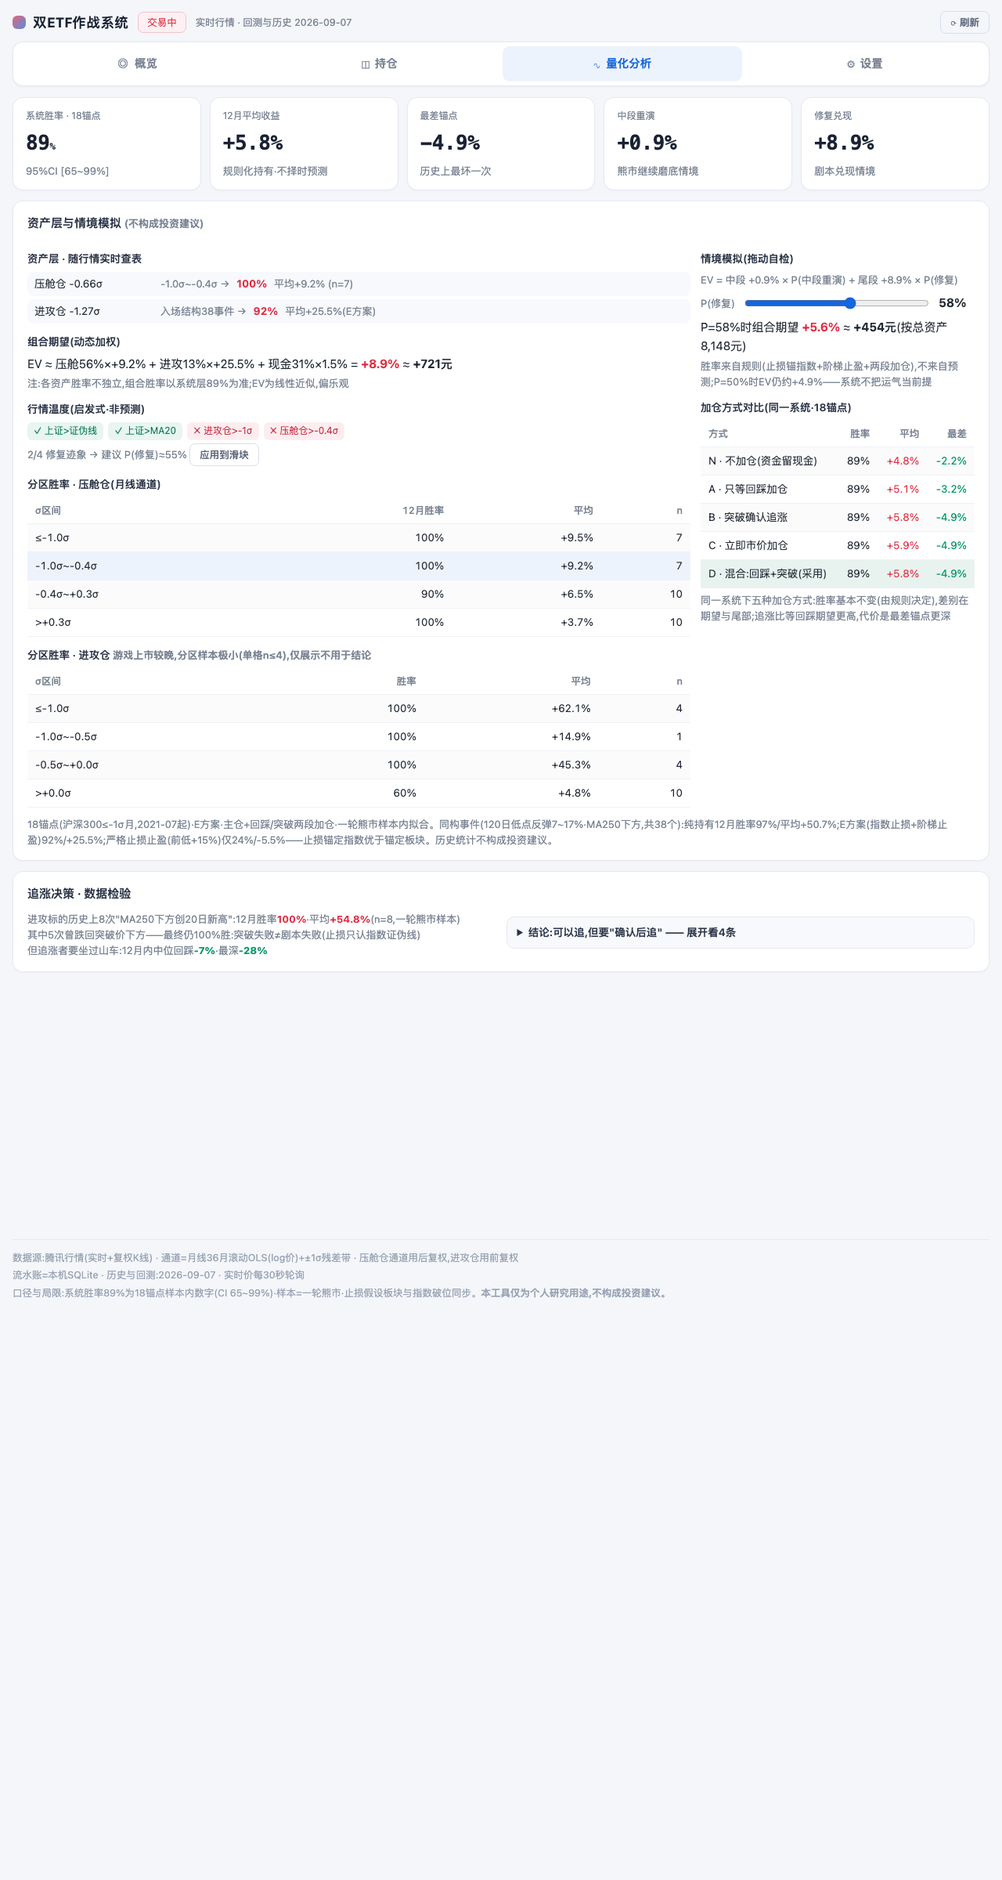
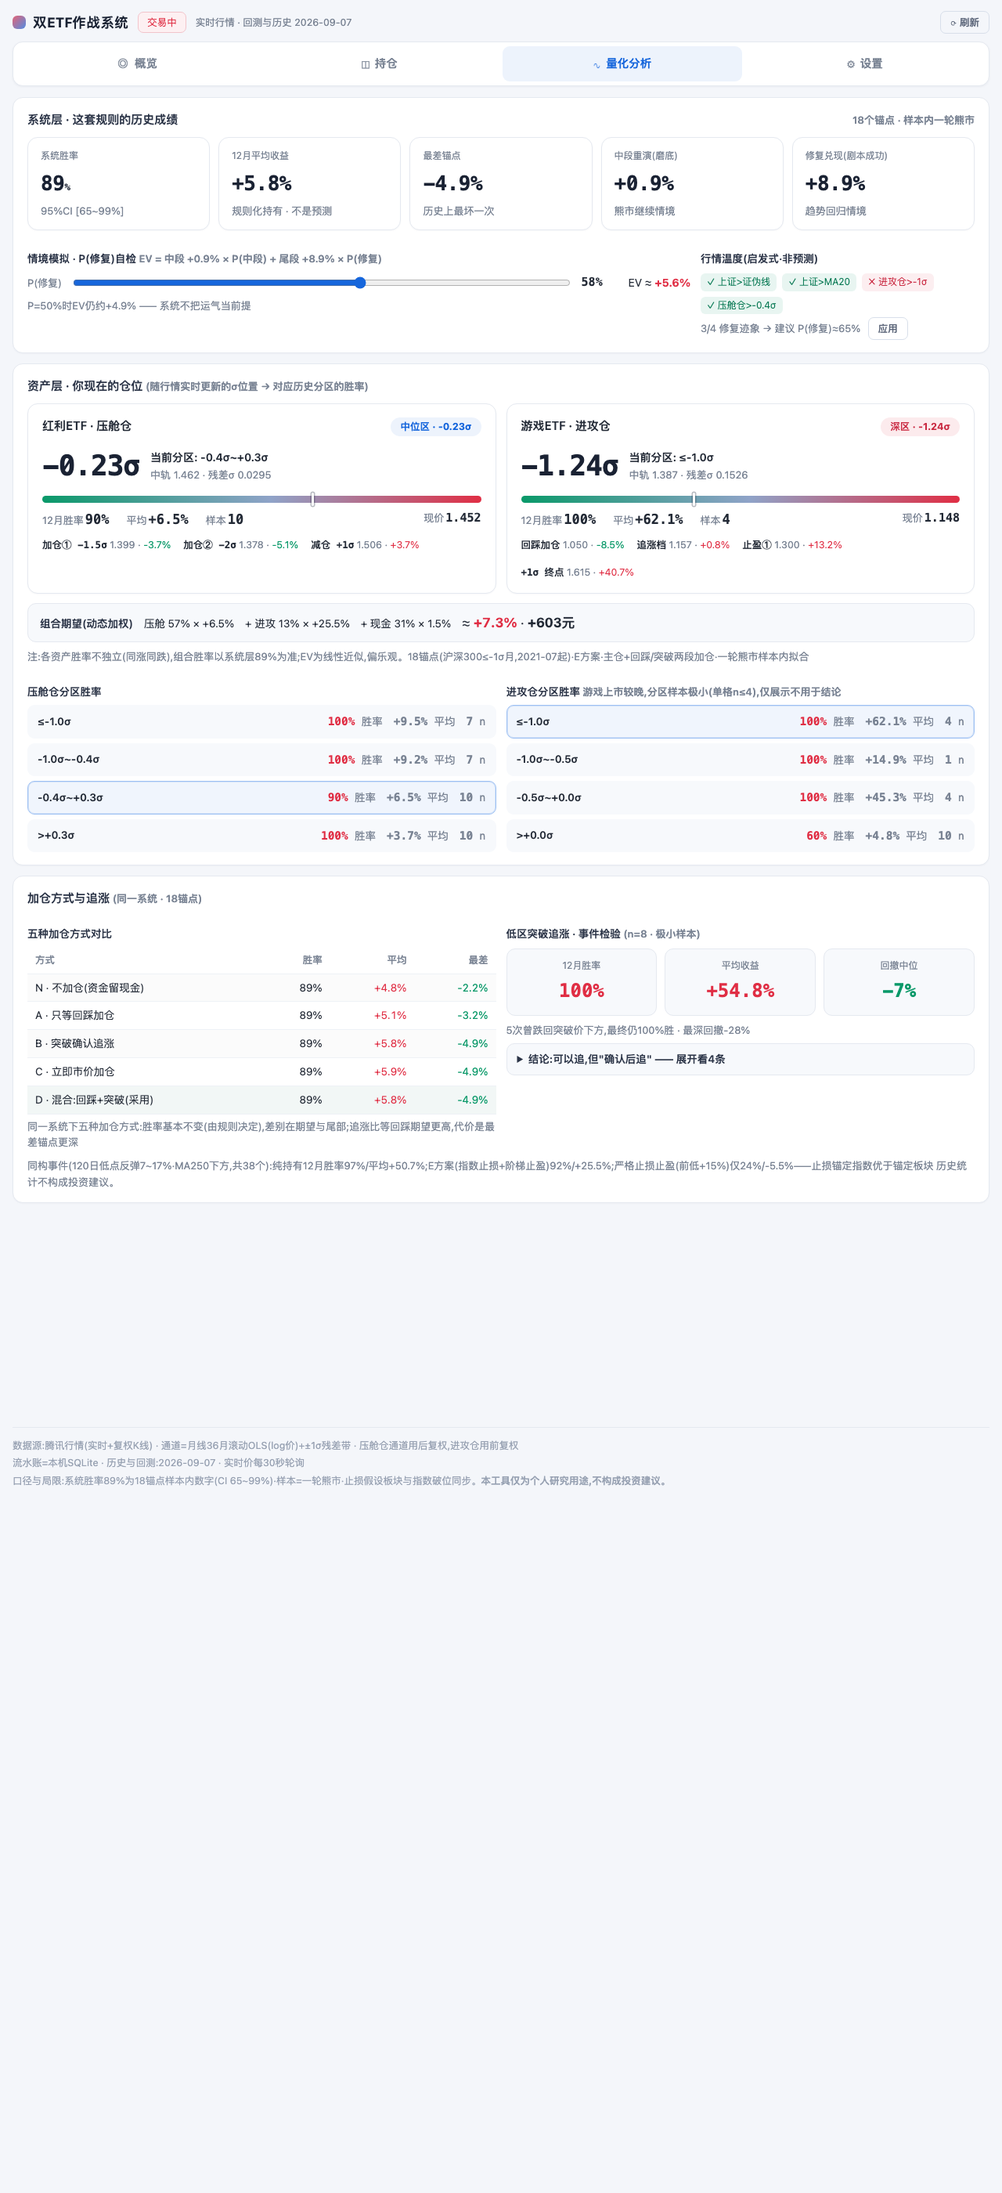
v7 量化页疏朗化:三面板回答三问题,大卡代替密集表格
- 面板1 系统层:五张统计大卡(胜率/平均/最差/中段/尾段)+情境滑块+行情温度两栏并排
- 面板2 资产层:每仓一张大卡(σ大字34px+分区徽章+当前分区胜率/平均/n+量尺+到各作战位的距离%),分区表改行卡片式(4行一列,当前高亮)
- 面板3 加仓与追涨:五方式对比表+追涨三张minicard(胜率/平均/回撤)+结论details折叠
- 面板间距/行距全面放宽,标题带副注,页面从'密集报表'变'三段叙事'

diff --git a/frontend/js/views/quant.js b/frontend/js/views/quant.js
@@ -1,27 +1,64 @@
-// 量化分析视图:胜率三层 + 分区表 + 方案对比 + 追涨检验
+// 量化分析:三块面板——系统层(历史成绩)/资产层(当前位置)/加仓与追涨
 import { store } from '../store.js';
 import { fmt, ZONE_CUTS } from '../config.js';
 
+function zoneOf(pos, key, D) {
+  const cuts = ZONE_CUTS[key];
+  const table = key === 'dividend' ? D.stats.dividend_zones : D.stats.games_zones;
+  return table[cuts.reduce((a, c) => a + (pos > c ? 1 : 0), 0)];
+}
+const zoneCls = pos => (pos <= -1 ? 'deep' : pos < 0 ? 'mid' : 'high');
+const zoneLbl = pos => (pos <= -1 ? '深区' : pos < 0 ? '中位区' : '高位区');
+
+function zoneList(rows, cur) {
+  return `<div class="zonelist">${rows.map(z => `
+    <div class="zrow ${z === cur ? 'on' : ''}">
+      <span class="zname">${z[0]}</span>
+      <span class="right">
+        <span><b class="up">${((z[1] || 0) * 100).toFixed(0)}%</b> 胜率</span>
+        <span><b>${fmt.pct((z[2] || 0) * 100, 1)}</b> 平均</span>
+        <span><b>${z[3]}</b> n</span>
+      </span></div>`).join('')}</div>`;
+}
+
+function posCard(key, name, ch, zone, price, extras) {
+  const dist = (x, p) => `${fmt.p(x)} · <span class="${(x / p - 1) >= 0 ? 'up' : 'down'}">${(x / p - 1) >= 0 ? '+' : ''}${((x / p - 1) * 100).toFixed(1)}%</span>`;
+  return `<div class="poscard">
+    <div class="h"><span class="n">${name}</span>
+      <span class="tag2 ${zoneCls(ch.pos)}">${zoneLbl(ch.pos)} · ${ch.pos.toFixed(2)}σ</span></div>
+    <div class="main">
+      <span class="sigma">${ch.pos.toFixed(2)}σ</span>
+      <div>
+        <div class="zname">当前分区: ${zone[0]}</div>
+        <div class="mini">中轨 ${fmt.p(ch.mid)} · 残差σ ${ch.sd.toFixed(4)}</div>
+      </div></div>
+    <div class="gauge"><div class="mark" style="left:${Math.max(0, Math.min(100, (ch.pos + 3) / 4.5 * 100))}%"></div></div>
+    <div class="statline">
+      <span>12月胜率<b class="up">${((zone[1] || 0) * 100).toFixed(0)}%</b></span>
+      <span>平均<b class="${(zone[2] || 0) >= 0 ? 'up' : 'down'}">${fmt.pct((zone[2] || 0) * 100, 1)}</b></span>
+      <span>样本<b>${zone[3]}</b></span>
+      <span style="margin-left:auto">现价<b style="font-size:15px">${price.toFixed(3)}</b></span>
+    </div>
+    <div class="edges">
+      ${extras.map(e => `<span class="e"><b>${e.l}</b> ${dist(e.p, price)}</span>`).join('')}
+    </div></div>`;
+}
+
 export function renderQuant(root) {
-  const s = store.state;
-  const D = s.D, L = s.L;
+  const s = store.state, D = s.D;
   const st = D.stats.system, ge = D.stats.games_events, ce = D.stats.chase_events;
   const h = s.h, g = s.g;
+  const L = s.L;
   const dVal = L.dividend.sh * h, gVal = L.games.sh * g;
   const tot = dVal + gVal + L.cash;
   const cD = s.chD.last, cG = s.chG.last;
   const P = s.p;
-
-  const zoneOf = (pos, key) => {
-    const cuts = ZONE_CUTS[key];
-    const table = key === 'dividend' ? D.stats.dividend_zones : D.stats.games_zones;
-    return table[cuts.reduce((a, c) => a + (pos > c ? 1 : 0), 0)];
-  };
-  const zD = zoneOf(cD.pos, 'dividend');
+  const rg = D.rules.games;
+  const zD = zoneOf(cD.pos, 'dividend', D), zG = zoneOf(cG.pos, 'games', D);
   const evDyn = tot > 0 && zD ? (dVal / tot) * (zD[2] || 0) + (gVal / tot) * (ge.escheme_avg || 0) + (L.cash / tot) * 0.015 : 0;
-
+  const tp1 = (L.games.cost || 0) * rg.tp1_mult;
   const flags = [
-    ['上证>证伪线', s.s > D.rules.games.sse_stop],
+    ['上证>证伪线', s.s > rg.sse_stop],
     ['上证>MA20', s.s > s.ma20],
     ['进攻仓>-1σ', cG.pos > -1],
     ['压舱仓>-0.4σ', cD.pos > -0.4],
@@ -29,84 +66,112 @@ export function renderQuant(root) {
   const nOk = flags.filter(f => f[1]).length;
   const pSug = nOk >= 3 ? 65 : nOk === 2 ? 55 : nOk === 1 ? 45 : 35;
   const ev = st.mid + (st.late - st.mid) * P / 100;
-
-  const zones = D.stats.dividend_zones.map(z =>
-    `<tr${z === zD ? ' style="background:#1666dc14"' : ''}><td>${z[0]}</td><td>${((z[1] || 0) * 100).toFixed(0)}%</td><td>${fmt.pct((z[2] || 0) * 100, 1)}</td><td>${z[3]}</td></tr>`).join('');
-  const gz = D.stats.games_zones.map(z =>
-    `<tr><td>${z[0]}</td><td>${((z[1] || 0) * 100).toFixed(0)}%</td><td>${fmt.pct((z[2] || 0) * 100, 1)}</td><td>${z[3]}</td></tr>`).join('');
-  const modeRows = D.stats.mode_table;
-  const mt = modeRows.map((m, i) =>
-    `<tr${i === modeRows.length - 1 ? ' style="background:#0a996914"' : ''}><td>${m[0]}</td><td>${((m[1] || 0) * 100).toFixed(0)}%</td>
-    <td class="up">${fmt.pct((m[2] || 0) * 100, 1)}</td><td class="${(m[3] || 0) < 0 ? 'down' : 'flat'}">${fmt.pct((m[3] || 0) * 100, 1)}</td></tr>`).join('');
+  const mt = D.stats.mode_table;
+  const modeRows = mt.map((m, i) => `<tr${i === mt.length - 1 ? ' style="background:#0a996909"' : ''}>
+    <td>${m[0]}</td><td>${((m[1] || 0) * 100).toFixed(0)}%</td>
+    <td class="up">${fmt.pct((m[2] || 0) * 100, 1)}</td>
+    <td class="${(m[3] || 0) < 0 ? 'down' : 'flat'}">${fmt.pct((m[3] || 0) * 100, 1)}</td></tr>`).join('');
 
   root.innerHTML = `
-  <div class="statrow">
-    <div class="qcard" style="cursor:default"><div class="qmeta">系统胜率 · ${st.n}锚点</div>
-      <div class="qrow"><span class="qprice">${(st.win * 100).toFixed(0)}<span style="font-size:13px">%</span></span></div>
-      <div class="mini">95%CI [${(st.ci[0] * 100).toFixed(0)}~${(st.ci[1] * 100).toFixed(0)}%]</div></div>
-    <div class="qcard" style="cursor:default"><div class="qmeta">12月平均收益</div>
-      <div class="qrow"><span class="qprice ${st.avg >= 0 ? 'up' : 'down'}">${fmt.pct(st.avg * 100, 1)}</span></div>
-      <div class="mini">规则化持有·不择时预测</div></div>
-    <div class="qcard" style="cursor:default"><div class="qmeta">最差锚点</div>
-      <div class="qrow"><span class="qprice ${st.worst >= 0 ? 'up' : 'down'}">${fmt.pct(st.worst * 100, 1)}</span></div>
-      <div class="mini">历史上最坏一次</div></div>
-    <div class="qcard" style="cursor:default"><div class="qmeta">中段重演</div>
-      <div class="qrow"><span class="qprice ${st.mid >= 0 ? 'up' : 'down'}">${fmt.pct(st.mid * 100, 1)}</span></div>
-      <div class="mini">熊市继续磨底情境</div></div>
-    <div class="qcard" style="cursor:default"><div class="qmeta">修复兑现</div>
-      <div class="qrow"><span class="qprice ${st.late >= 0 ? 'up' : 'down'}">${fmt.pct(st.late * 100, 1)}</span></div>
-      <div class="mini">剧本兑现情境</div></div>
+  <!-- 面板1:系统层 -->
+  <div class="panel">
+    <h2 style="display:flex;justify-content:space-between;align-items:baseline"><span>系统层 · 这套规则的历史成绩</span>
+      <span class="mini">${st.n}个锚点 · 样本内一轮熊市</span></h2>
+    <div class="statrow">
+      <div class="qcard" style="cursor:default"><div class="qmeta">系统胜率</div>
+        <div class="qrow"><span class="qprice">${(st.win * 100).toFixed(0)}<span style="font-size:13px">%</span></span></div>
+        <div class="mini">95%CI [${(st.ci[0] * 100).toFixed(0)}~${(st.ci[1] * 100).toFixed(0)}%]</div></div>
+      <div class="qcard" style="cursor:default"><div class="qmeta">12月平均收益</div>
+        <div class="qrow"><span class="qprice ${st.avg >= 0 ? 'up' : 'down'}">${fmt.pct(st.avg * 100, 1)}</span></div>
+        <div class="mini">规则化持有 · 不是预测</div></div>
+      <div class="qcard" style="cursor:default"><div class="qmeta">最差锚点</div>
+        <div class="qrow"><span class="qprice ${st.worst >= 0 ? 'up' : 'down'}">${fmt.pct(st.worst * 100, 1)}</span></div>
+        <div class="mini">历史上最坏一次</div></div>
+      <div class="qcard" style="cursor:default"><div class="qmeta">中段重演(磨底)</div>
+        <div class="qrow"><span class="qprice ${st.mid >= 0 ? 'up' : 'down'}">${fmt.pct(st.mid * 100, 1)}</span></div>
+        <div class="mini">熊市继续情境</div></div>
+      <div class="qcard" style="cursor:default"><div class="qmeta">修复兑现(剧本成功)</div>
+        <div class="qrow"><span class="qprice ${st.late >= 0 ? 'up' : 'down'}">${fmt.pct(st.late * 100, 1)}</span></div>
+        <div class="mini">趋势回归情境</div></div>
+    </div>
+    <div class="grid2" style="margin-top:2px">
+      <div>
+        <div class="lbl">情境模拟 · P(修复)自检 <span class="mini">EV = 中段 ${fmt.pct(st.mid * 100, 1)} × P(中段) + 尾段 ${fmt.pct(st.late * 100, 1)} × P(修复)</span></div>
+        <div style="display:flex;align-items:center;gap:12px;margin:8px 0">
+          <span class="mini" style="white-space:nowrap">P(修复)</span>
+          <input type="range" min="0" max="100" value="${P}" style="flex:1" oninput="setP(+this.value)">
+          <b style="width:48px;font-family:var(--mono)">${P}%</b>
+          <span style="font-size:14px">EV ≈ <b class="${ev >= 0 ? 'up' : 'down'}">${fmt.pct(ev * 100, 1)}</b></span>
+        </div>
+        <div class="mini">P=50%时EV仍约+${((st.mid + (st.late - st.mid) * 0.5) * 100).toFixed(1)}% —— 系统不把运气当前提</div>
+      </div>
+      <div>
+        <div class="lbl">行情温度(启发式·非预测)</div>
+        <div style="display:flex;gap:7px;flex-wrap:wrap;margin:8px 0 4px">
+          ${flags.map(f => `<span class="flag ${f[1] ? 'ok' : 'no'}">${f[1] ? '✓' : '✗'} ${f[0]}</span>`).join('')}
+        </div>
+        <div class="mini">${nOk}/4 修复迹象 → 建议 P(修复)≈${pSug}%
+          <button class="sm ghost" onclick="setP(${pSug})" style="margin-left:6px">应用</button></div>
+      </div>
+    </div>
   </div>
-  <div class="panel"><h2>资产层与情境模拟 <span class="mini">(不构成投资建议)</span></h2>
 
-  <div class="grid2"><div>
-    <div class="lbl">资产层 · 随行情实时查表</div>
-    ${zD ? `<div class="zone"><span class="zname">压舱仓 ${cD.pos.toFixed(2)}σ</span>
-      <span class="mini">${zD[0]} →</span><b class="up">${((zD[1] || 0) * 100).toFixed(0)}%</b>
-      <span class="mini">平均${fmt.pct((zD[2] || 0) * 100, 1)} (n=${zD[3]})</span></div>` : ''}
-    <div class="zone"><span class="zname">进攻仓 ${cG.pos.toFixed(2)}σ</span>
-      <span class="mini">入场结构${ge.n}事件 →</span><b class="up">${((ge.escheme_win || 0) * 100).toFixed(0)}%</b>
-      <span class="mini">平均${fmt.pct((ge.escheme_avg || 0) * 100, 1)}(E方案)</span></div>
-    ${tot > 0 ? `<div class="lbl">组合期望(动态加权)</div>
-      <div>EV ≈ 压舱${(dVal / tot * 100).toFixed(0)}%×${fmt.pct((zD ? zD[2] : 0) * 100, 1)} + 进攻${(gVal / tot * 100).toFixed(0)}%×${fmt.pct((ge.escheme_avg || 0) * 100, 1)} + 现金${(L.cash / tot * 100).toFixed(0)}%×1.5%
-      = <b class="${evDyn >= 0 ? 'up' : 'down'}">${fmt.pct(evDyn * 100, 1)}</b> ≈ <b>${evDyn * tot >= 0 ? '+' : ''}${(evDyn * tot).toFixed(0)}元</b></div>
-      <div class="mini" style="margin-top:3px">注:各资产胜率不独立,组合胜率以系统层${(st.win * 100).toFixed(0)}%为准;EV为线性近似,偏乐观</div>` : ''}
-    <div class="lbl">行情温度(启发式·非预测)</div>
-    <div style="display:flex;gap:6px;flex-wrap:wrap;margin-bottom:4px">
-      ${flags.map(f => `<span class="flag ${f[1] ? 'ok' : 'no'}">${f[1] ? '✓' : '✗'} ${f[0]}</span>`).join('')}</div>
-    <div class="mini">${nOk}/4 修复迹象 → 建议 P(修复)≈${pSug}% <button class="sm ghost" onclick="setP(${pSug})">应用到滑块</button></div>
+  <!-- 面板2:资产层 -->
+  <div class="panel">
+    <h2>资产层 · 你现在的仓位 <span class="mini">(随行情实时更新的σ位置 → 对应历史分区的胜率)</span></h2>
+    <div class="grid2eq">
+      ${posCard('dividend', D.symbols.dividend.name + ' · 压舱仓', cD, zD, h, [
+        { l: '加仓① -1.5σ', p: cD.l15 }, { l: '加仓② -2σ', p: cD.l2 }, { l: '减仓 +1σ', p: cD.u1 }])}
+      ${posCard('games', D.symbols.games.name + ' · 进攻仓', cG, zG, g, [
+        { l: '回踩加仓', p: rg.adds[0].price }, { l: '追涨档', p: rg.adds[1].price },
+        { l: '止盈①', p: tp1 }, { l: '+1σ 终点', p: cG.u1 }])}
+    </div>
+    ${tot > 0 ? `<div class="evbar">
+      <span class="t">组合期望(动态加权)</span>
+      <span>压舱 ${(dVal / tot * 100).toFixed(0)}% × ${fmt.pct((zD ? zD[2] : 0) * 100, 1)}</span>
+      <span>+ 进攻 ${(gVal / tot * 100).toFixed(0)}% × ${fmt.pct((ge.escheme_avg || 0) * 100, 1)}</span>
+      <span>+ 现金 ${(L.cash / tot * 100).toFixed(0)}% × 1.5%</span>
+      <span class="v">≈ <b class="${evDyn >= 0 ? 'up' : 'down'}">${fmt.pct(evDyn * 100, 1)}</b> · <b>${evDyn * tot >= 0 ? '+' : ''}${(evDyn * tot).toFixed(0)}元</b></span>
+    </div>` : ''}
+    <div class="mini" style="margin-top:8px">注:各资产胜率不独立(同涨同跌),组合胜率以系统层${(st.win * 100).toFixed(0)}%为准;EV为线性近似,偏乐观。${st.note}</div>
+    <div class="grid2eq" style="margin-top:12px">
+      <div>
+        <div class="lbl">压舱仓分区胜率</div>
+        ${zoneList(D.stats.dividend_zones, zD)}
+      </div>
+      <div>
+        <div class="lbl">进攻仓分区胜率 <span class="mini">${D.stats.games_zones_note}</span></div>
+        ${zoneList(D.stats.games_zones, zG)}
+      </div>
+    </div>
+  </div>
 
-    <div class="lbl">分区胜率 · 压舱仓(月线通道)</div>
-    <table><tr><th>σ区间</th><th>12月胜率</th><th>平均</th><th>n</th></tr>${zones}</table>
-    <div class="lbl">分区胜率 · 进攻仓 <span class="mini">${D.stats.games_zones_note}</span></div>
-    <table><tr><th>σ区间</th><th>胜率</th><th>平均</th><th>n</th></tr>${gz}</table>
-  </div><div>
-    <div class="lbl">情境模拟(拖动自检)</div>
-    <div class="mini">EV = 中段 ${fmt.pct(st.mid * 100, 1)} × P(中段重演) + 尾段 ${fmt.pct(st.late * 100, 1)} × P(修复)</div>
-    <div style="display:flex;align-items:center;gap:10px;margin:8px 0">
-      <span class="mini" style="white-space:nowrap">P(修复)</span>
-      <input type="range" min="0" max="100" value="${P}" style="flex:1" oninput="setP(+this.value)">
-      <b style="width:46px">${P}%</b></div>
-    <div>P=${P}%时组合期望 <b class="${ev >= 0 ? 'up' : 'down'}">${fmt.pct(ev * 100, 1)}</b>${tot > 0 ? ` ≈ <b>${ev * tot >= 0 ? '+' : ''}${(ev * tot).toFixed(0)}元</b>(按总资产${fmt.money(tot)})` : ''}</div>
-    <div class="mini" style="margin-top:4px">胜率来自规则(止损锚指数+阶梯止盈+两段加仓),不来自预测;P=50%时EV仍约+${((st.mid + (st.late - st.mid) * 0.5) * 100).toFixed(1)}%——系统不把运气当前提</div>
-
-    <div class="lbl">加仓方式对比(同一系统·${st.n}锚点)</div>
-    <table><tr><th>方式</th><th>胜率</th><th>平均</th><th>最差</th></tr>${mt}</table>
-    <div class="mini">${D.stats.mode_note}</div>
-  </div></div>
-  <div class="mini" style="margin-top:6px">${st.note}。${ge.note}。历史统计不构成投资建议。</div></div>
-
-  <div class="panel"><h2>追涨决策 · 数据检验</h2>
-  <div class="grid2eq"><div>
-    <div class="mini">进攻标的历史上${ce.n}次"MA250下方创20日新高":12月胜率<b class="up">${((ce.win || 0) * 100).toFixed(0)}%</b>·平均<b class="up">${fmt.pct((ce.avg || 0) * 100, 1)}</b>(n=${ce.n},一轮熊市样本)</div>
-    <div class="mini">其中${ce.fail_n}次曾跌回突破价下方——最终仍${((ce.fail_win || 0) * 100).toFixed(0)}%胜:突破失败≠剧本失败(止损只认指数证伪线)</div>
-    <div class="mini">但追涨者要坐过山车:12月内中位回踩<b class="down">${((ce.dip_med || 0) * 100).toFixed(0)}%</b>·最深<b class="down">${((ce.dip_worst || 0) * 100).toFixed(0)}%</b></div>
-  </div><div>
-    <details><summary>结论:可以追,但要"确认后追" —— 展开看4条</summary>
-    <div class="mini">① 追涨比死等回踩期望更高,胜率不变——追涨不降低系统质量;<br>
-    ② 采用两段式:回踩档 + 周收盘确认后追涨档,孰先到孰成交;<br>
-    ③ 不追"中间态"(既没回踩也没突破的位置)——既无折价也无确认;<br>
-    ④ 追进去后要有坐${((ce.dip_med || 0) * 100).toFixed(0)}%回撤的觉悟,止损线依然只认指数证伪线。</div></details>
-  </div></div></div>`;
+  <!-- 面板3:加仓与追涨 -->
+  <div class="panel">
+    <h2>加仓方式与追涨 <span class="mini">(同一系统 · ${st.n}锚点)</span></h2>
+    <div class="grid2eq">
+      <div>
+        <div class="lbl">五种加仓方式对比</div>
+        <table><tr><th>方式</th><th>胜率</th><th>平均</th><th>最差</th></tr>${modeRows}</table>
+        <div class="mini">${D.stats.mode_note}</div>
+      </div>
+      <div>
+        <div class="lbl">低区突破追涨 · 事件检验 <span class="mini">(n=${ce.n} · 极小样本)</span></div>
+        <div class="minicards">
+          <div class="minicard"><div class="k">12月胜率</div><div class="v up">${((ce.win || 0) * 100).toFixed(0)}%</div></div>
+          <div class="minicard"><div class="k">平均收益</div><div class="v up">${fmt.pct((ce.avg || 0) * 100, 1)}</div></div>
+          <div class="minicard"><div class="k">回撤中位</div><div class="v down">${((ce.dip_med || 0) * 100).toFixed(0)}%</div></div>
+        </div>
+        <div class="mini">${ce.fail_n}次曾跌回突破价下方,最终仍${((ce.fail_win || 0) * 100).toFixed(0)}%胜 · 最深回撤${((ce.dip_worst || 0) * 100).toFixed(0)}%</div>
+        <details><summary>结论:可以追,但"确认后追" —— 展开看4条</summary>
+          <div class="mini">① 追涨比死等回踩期望更高,胜率不变——不降低系统质量;<br>
+          ② 两段式:回踩档 + 周收盘确认后追涨档,孰先到孰成交;<br>
+          ③ 不追"中间态"——既无折价也无确认;<br>
+          ④ 追进去要做好坐${((ce.dip_med || 0) * 100).toFixed(0)}%回撤的觉悟,止损只认指数证伪线。</div>
+        </details>
+      </div>
+    </div>
+    <div class="mini" style="margin-top:10px">${ge.note} 历史统计不构成投资建议。</div>
+  </div>`;
 }
 window.setP = v => { store.set({ p: v }); localStorage.setItem('sa_p_repair', v); };

diff --git a/frontend/css/style.css b/frontend/css/style.css
@@ -227,3 +227,32 @@ details[open] summary{margin-bottom:7px}
   .big .kv .v{font-size:19px}
   .act{font-size:13px}
 }
+
+/* ---------- 量化页 v7:疏朗排版 ---------- */
+.poscard{background:var(--panel);border:1px solid var(--border);border-radius:13px;padding:16px 18px;box-shadow:0 1px 2px #17233d08}
+.poscard .h{display:flex;justify-content:space-between;align-items:baseline;margin-bottom:4px}
+.poscard .h .n{font-weight:600;font-size:15px}
+.tag2{display:inline-block;font-size:12.5px;font-weight:700;padding:2px 12px;border-radius:99px}
+.tag2.deep{background:#e02e4418;color:#c92840}
+.tag2.mid{background:#1666dc14;color:#1666dc}
+.tag2.high{background:#0a996916;color:#0a7a55}
+.poscard .main{display:flex;align-items:center;gap:14px;margin:10px 0 6px}
+.poscard .sigma{font-size:36px;font-weight:700;font-family:var(--mono);letter-spacing:-1px;color:#1a2233}
+.poscard .zname{font-size:14px;font-weight:600;margin-bottom:2px}
+.poscard .statline{display:flex;gap:22px;margin:8px 0 10px;font-size:13px;color:var(--muted);flex-wrap:wrap}
+.poscard .statline b{font-size:17px;font-family:var(--mono);color:var(--text);margin-left:2px}
+.poscard .edges{display:flex;justify-content:flex-start;gap:16px;margin-top:10px;font-size:12.5px;color:var(--muted);flex-wrap:wrap}
+.poscard .edges .e b{font-family:var(--mono);font-weight:600;color:var(--text)}
+.zonelist{display:flex;flex-direction:column;gap:6px}
+.zrow{display:flex;align-items:center;gap:10px;padding:9px 12px;border-radius:9px;background:var(--panel2);border:1px solid transparent;font-size:13.5px}
+.zrow.on{background:#1666dc10;border-color:#9dc0f3;box-shadow:inset 0 0 0 1px #1666dc22}
+.zrow .zname{font-weight:600;min-width:110px}
+.zrow .right{margin-left:auto;display:flex;gap:14px;font-family:var(--mono);color:var(--muted)}
+.zrow .right b{font-size:14.5px}
+.minicards{display:grid;grid-template-columns:repeat(3,1fr);gap:10px;margin:8px 0}
+.minicard{background:var(--panel2);border:1px solid var(--border);border-radius:11px;padding:12px 14px;text-align:center}
+.minicard .k{font-size:12px;color:var(--muted);margin-bottom:4px}
+.minicard .v{font-size:24px;font-weight:700;font-family:var(--mono)}
+.evbar{display:flex;align-items:baseline;gap:14px;flex-wrap:wrap;background:var(--panel2);border:1px solid var(--border);border-radius:11px;padding:11px 15px;font-size:13.5px;margin-top:12px}
+.evbar .t{font-weight:600;color:#2a3346}
+.evbar .v{font-size:17px}
